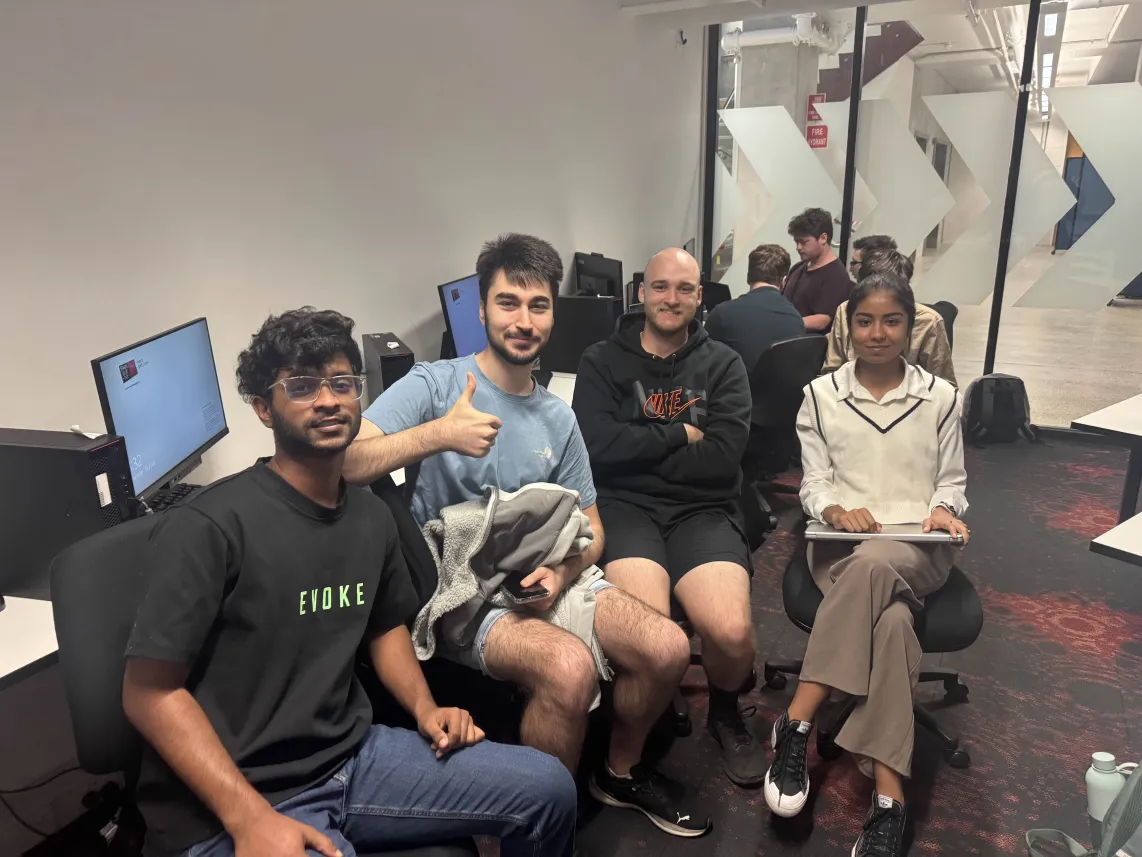
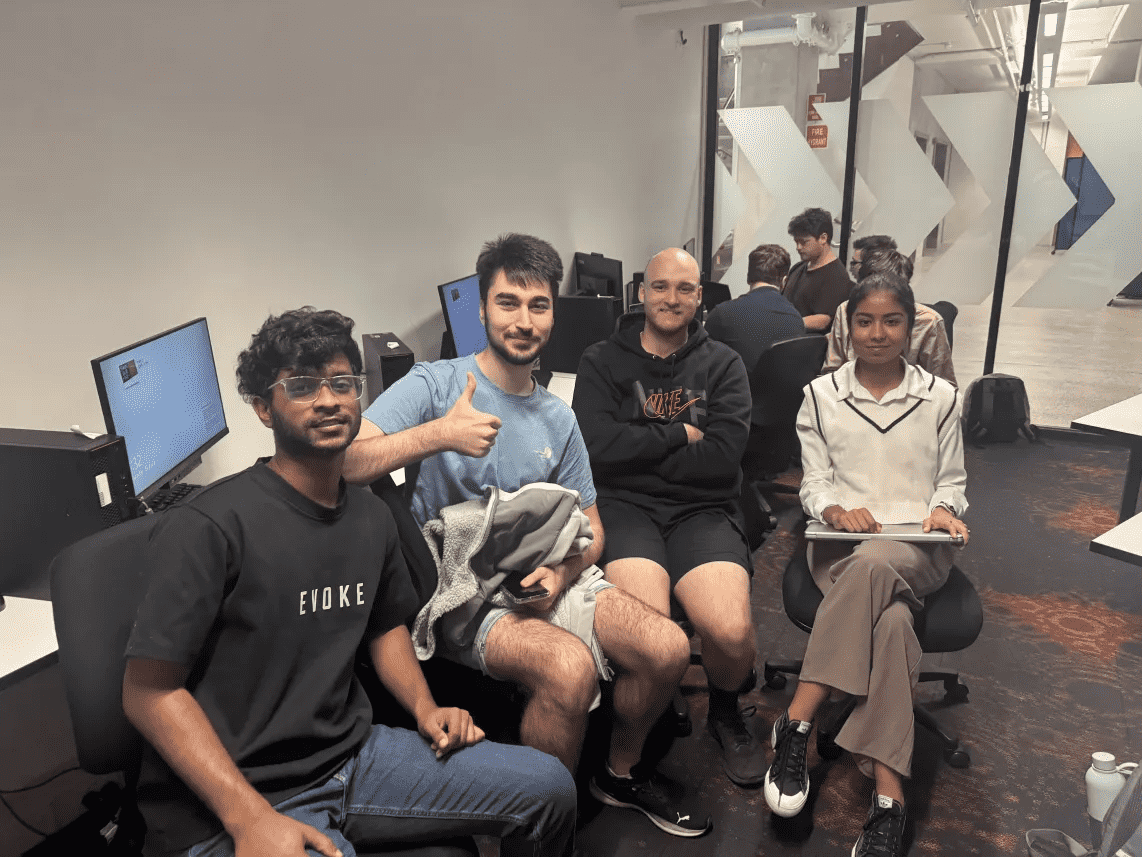
group photo now under 300kb

diff --git a/stylesheet/styles.css b/stylesheet/styles.css
@@ -526,3 +526,4 @@ header img {
   justify-content: space-between;
   align-items: center;
 }
+  

diff --git a/enhancements.php b/enhancements.php
@@ -25,9 +25,12 @@
             <div>
                 <ul>
                     <li>Increase whitespace / break up text in the index and jobs pages</li>
-                    <li>Increase whitespace / break up text in the index and jobs pages</li>
                     <li>Meta description/keywords for each page</li>
                     <li>Reduce image sizes to less than 300kb to improve peformance</li>
+                    <!-- safetly display the <, >, and " chars -->
+                    <li>Should use &lt;input type=&quot;date&quot;&gt; on the apply page</li> 
+                    <li>???Update checkbox naming so that all selections are captured</li>
+                    <li>Use shorthand font property</li>
                 </ul>
             </div>
     </section>
